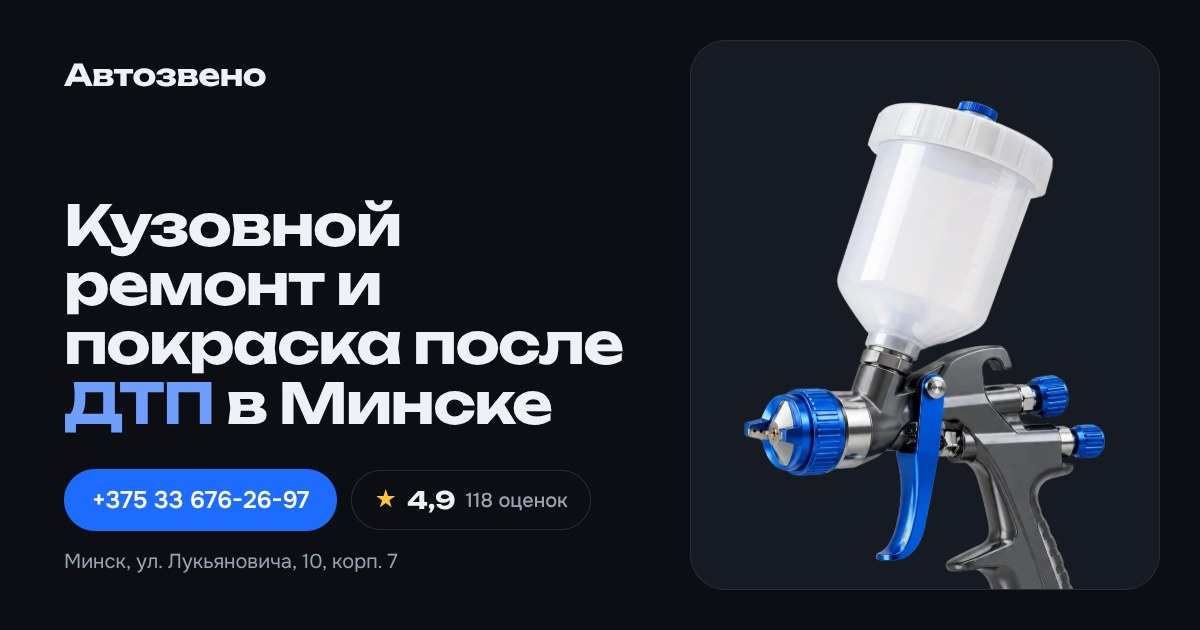
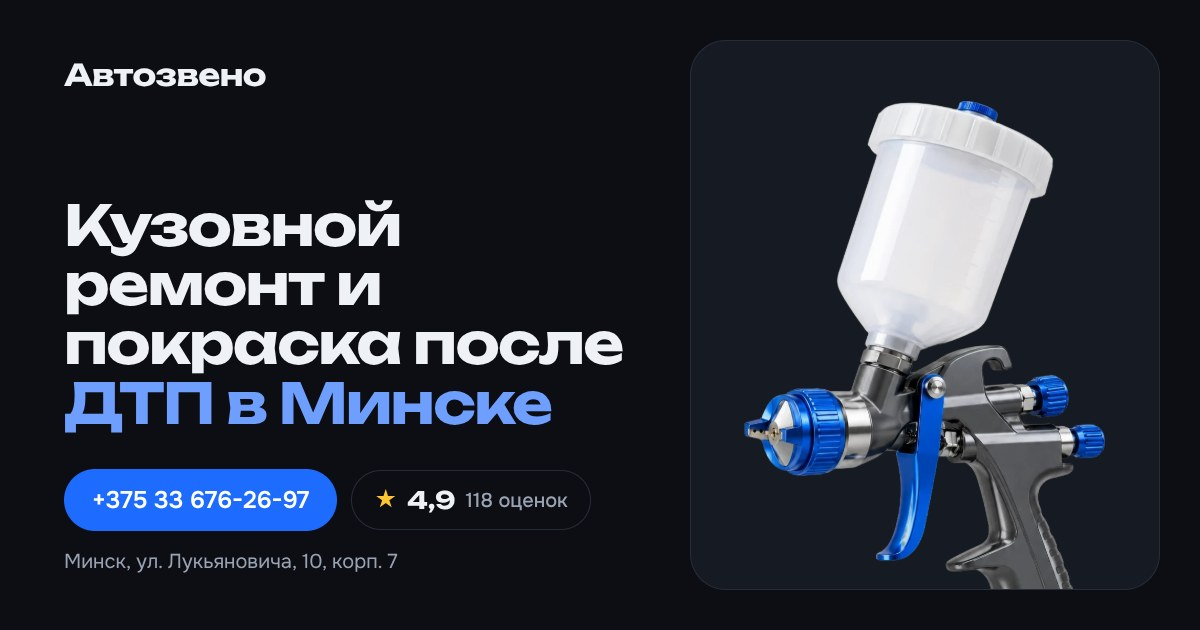
Плакат: без колец, крупные точки справа, акцент — белая плашка (Автозвено: «ДТП в Минске»)
Claude-Session: https://claude.ai/code/session_016NbEm95whaVwUBYNA7vRPL

Changed region(s): [[0.185, 0.6032, 0.4625, 0.6937]]

diff --git a/blank/blank.css b/blank/blank.css
@@ -668,9 +668,9 @@ h2 em{font-style:normal;color:var(--ac-tx)}
 /* ---------- ПЛАКАТ: спокойные карточки, отступ после цветного экрана, акцент — подчёркивание, узор на первом экране ---------- */
 [data-style="плакат"]{--r:14px;--r-sm:10px}
 [data-style="плакат"] .hero{margin-bottom:clamp(40px,6vw,88px)}
-[data-style="плакат"] .hero h1 em,[data-style="плакат"] .hero h1 mark{background:none;color:inherit;padding:0;text-decoration:underline;text-decoration-color:color-mix(in srgb,var(--on-ac) 70%,transparent);text-decoration-thickness:.09em;text-underline-offset:.12em;text-decoration-skip-ink:none}
+[data-style="плакат"] .hero h1 em,[data-style="плакат"] .hero h1 mark{background:var(--on-ac);color:var(--ac);padding:0 .12em;margin:0 -.04em;border-radius:.1em;-webkit-box-decoration-break:clone;box-decoration-break:clone;text-decoration:none}
 [data-style="плакат"] .cards .ic,[data-style="плакат"] .why .ic{border-radius:10px}
-/* узор: второе тонкое кольцо вокруг большого и сетка точек в левом нижнем углу */
-[data-style="плакат"] .hero::before{outline:1px solid color-mix(in srgb,var(--on-ac) 22%,transparent);outline-offset:clamp(28px,4vw,56px)}
+/* узор: без колец — сетка крупных точек справа за картинкой и мелких слева внизу */
+[data-style="плакат"] .hero::before{outline:0;box-shadow:none;border-radius:0;transform:none;top:0;bottom:0;right:0;left:auto;width:min(58vw,820px);aspect-ratio:auto;background-image:radial-gradient(color-mix(in srgb,var(--on-ac) 32%,transparent) 2.6px,transparent 2.9px);background-size:34px 34px;-webkit-mask:radial-gradient(ellipse 70% 75% at 70% 45%,#000 20%,transparent 72%);mask:radial-gradient(ellipse 70% 75% at 70% 45%,#000 20%,transparent 72%)}
 [data-style="плакат"] .hero::after{content:"";position:absolute;left:-20px;bottom:-10px;width:min(46vw,520px);height:220px;background-image:radial-gradient(color-mix(in srgb,var(--on-ac) 30%,transparent) 1.6px,transparent 1.8px);background-size:22px 22px;-webkit-mask:radial-gradient(ellipse at 0% 100%,#000 10%,transparent 70%);mask:radial-gradient(ellipse at 0% 100%,#000 10%,transparent 70%);pointer-events:none}
 @media(max-width:900px){[data-style="плакат"] .hero::after{height:160px;width:70vw}}

diff --git a/avtozveno/index.html b/avtozveno/index.html
@@ -14,7 +14,7 @@
 <meta property="og:url" content="https://d1trepes.github.io/sites/avtozveno/">
 <meta property="og:title" content="Автозвено — кузовной ремонт и покраска на ул. Лукьяновича, Минск">
 <meta property="og:description" content="Восстановление после ДТП, покраска, пороги и арки. Ремонт по ОСАГО. Рейтинг 4,9 на Яндекс Картах.">
-<meta property="og:image" content="https://d1trepes.github.io/sites/avtozveno/img/og.jpg?v=c7934a0a">
+<meta property="og:image" content="https://d1trepes.github.io/sites/avtozveno/img/og.jpg?v=1fe9539b">
 <meta property="og:image:width" content="1200">
 <meta property="og:image:height" content="630">
 <meta name="twitter:card" content="summary_large_image">
@@ -22,7 +22,7 @@
 <link rel="preconnect" href="https://fonts.googleapis.com">
 <link rel="preconnect" href="https://fonts.gstatic.com" crossorigin>
 <link href="https://fonts.googleapis.com/css2?family=Rubik:wght@400;500;600&family=Russo+One&display=swap" rel="stylesheet">
-<link rel="stylesheet" href="../blank/blank.css?v=3a4ae61c">
+<link rel="stylesheet" href="../blank/blank.css?v=2c217f0f">
 <script>document.documentElement.classList.add("js")</script>
 <script type="application/ld+json">
 {
@@ -30,7 +30,7 @@
   "@type": "AutoRepair",
   "name": "Автозвено",
   "url": "https://d1trepes.github.io/sites/avtozveno/",
-  "image": "https://d1trepes.github.io/sites/avtozveno/img/og.jpg?v=c7934a0a",
+  "image": "https://d1trepes.github.io/sites/avtozveno/img/og.jpg?v=1fe9539b",
   "telephone": [
     "+375336762697",
     "+375293923084"
@@ -80,7 +80,7 @@
     <div class="htop">
       
       
-      <h1 class="rv">Кузовной ремонт и покраска после <em>ДТП</em> в Минске</h1>
+      <h1 class="rv">Кузовной ремонт и покраска после <em>ДТП в Минске</em></h1>
     </div>
     <div class="hbody">
       <p class="lead rv" style="--d:0.1s">Автозвено на ул. Лукьяновича: восстановим машину после аварии и покрасим в цвет.</p>

diff --git a/tablica/index.html b/tablica/index.html
@@ -36,7 +36,7 @@ dl{display:flex;flex-wrap:wrap;gap:6px 18px;font-size:13px}dt{color:var(--mut);f
 .nt{font-size:13px;color:var(--mut);border-top:1px dashed var(--line);padding-top:10px}
 @media(max-width:760px){.kpi{grid-template-columns:repeat(2,1fr)}.grid{grid-template-columns:1fr}h1{font-size:26px}}
 </style></head><body><div class="w">
-<div class="top"><div><h1>Мои клиенты</h1><p>Сайты для автосервисов · обновлено 25 октября в 13:40</p></div></div>
+<div class="top"><div><h1>Мои клиенты</h1><p>Сайты для автосервисов · обновлено 25 октября в 13:45</p></div></div>
 <div class="kpi">
 <div class="k"><b>11</b><span>всего сервисов</span></div>
 <div class="k"><b>10</b><span>демо ждут звонка</span></div>

diff --git a/gtgarage/index.html b/gtgarage/index.html
@@ -22,7 +22,7 @@
 <link rel="preconnect" href="https://fonts.googleapis.com">
 <link rel="preconnect" href="https://fonts.gstatic.com" crossorigin>
 <link href="https://fonts.googleapis.com/css2?family=Golos+Text:wght@400;500;600&family=Oswald:wght@500;600;700&display=swap" rel="stylesheet">
-<link rel="stylesheet" href="../blank/blank.css?v=3a4ae61c">
+<link rel="stylesheet" href="../blank/blank.css?v=2c217f0f">
 <script>document.documentElement.classList.add("js")</script>
 <script type="application/ld+json">
 {

diff --git a/moy-mehanik/index.html b/moy-mehanik/index.html
@@ -22,7 +22,7 @@
 <link rel="preconnect" href="https://fonts.googleapis.com">
 <link rel="preconnect" href="https://fonts.gstatic.com" crossorigin>
 <link href="https://fonts.googleapis.com/css2?family=Golos+Text:wght@400;500;600&family=Oswald:wght@500;600;700&display=swap" rel="stylesheet">
-<link rel="stylesheet" href="../blank/blank.css?v=3a4ae61c">
+<link rel="stylesheet" href="../blank/blank.css?v=2c217f0f">
 <script>document.documentElement.classList.add("js")</script>
 <script type="application/ld+json">
 {

diff --git a/sto-777/index.html b/sto-777/index.html
@@ -22,7 +22,7 @@
 <link rel="preconnect" href="https://fonts.googleapis.com">
 <link rel="preconnect" href="https://fonts.gstatic.com" crossorigin>
 <link href="https://fonts.googleapis.com/css2?family=Golos+Text:wght@400;500;600&family=Oswald:wght@500;600;700&display=swap" rel="stylesheet">
-<link rel="stylesheet" href="../blank/blank.css?v=3a4ae61c">
+<link rel="stylesheet" href="../blank/blank.css?v=2c217f0f">
 <script>document.documentElement.classList.add("js")</script>
 <script type="application/ld+json">
 {

diff --git a/avtoservismaster/index.html b/avtoservismaster/index.html
@@ -22,7 +22,7 @@
 <link rel="preconnect" href="https://fonts.googleapis.com">
 <link rel="preconnect" href="https://fonts.gstatic.com" crossorigin>
 <link href="https://fonts.googleapis.com/css2?family=Onest:wght@400;500;600&family=Unbounded:wght@500;700&display=swap" rel="stylesheet">
-<link rel="stylesheet" href="../blank/blank.css?v=3a4ae61c">
+<link rel="stylesheet" href="../blank/blank.css?v=2c217f0f">
 <script>document.documentElement.classList.add("js")</script>
 <script type="application/ld+json">
 {

diff --git a/gans-motors/index.html b/gans-motors/index.html
@@ -22,7 +22,7 @@
 <link rel="preconnect" href="https://fonts.googleapis.com">
 <link rel="preconnect" href="https://fonts.gstatic.com" crossorigin>
 <link href="https://fonts.googleapis.com/css2?family=Onest:wght@400;500;600&family=Unbounded:wght@500;700&display=swap" rel="stylesheet">
-<link rel="stylesheet" href="../blank/blank.css?v=3a4ae61c">
+<link rel="stylesheet" href="../blank/blank.css?v=2c217f0f">
 <script>document.documentElement.classList.add("js")</script>
 <script type="application/ld+json">
 {

diff --git a/ulvmontazh/index.html b/ulvmontazh/index.html
@@ -22,7 +22,7 @@
 <link rel="preconnect" href="https://fonts.googleapis.com">
 <link rel="preconnect" href="https://fonts.gstatic.com" crossorigin>
 <link href="https://fonts.googleapis.com/css2?family=Onest:wght@400;500;600&family=Unbounded:wght@500;700&display=swap" rel="stylesheet">
-<link rel="stylesheet" href="../blank/blank.css?v=3a4ae61c">
+<link rel="stylesheet" href="../blank/blank.css?v=2c217f0f">
 <script>document.documentElement.classList.add("js")</script>
 <script type="application/ld+json">
 {

diff --git a/sto-starovilenskaya/index.html b/sto-starovilenskaya/index.html
@@ -22,7 +22,7 @@
 <link rel="preconnect" href="https://fonts.googleapis.com">
 <link rel="preconnect" href="https://fonts.gstatic.com" crossorigin>
 <link href="https://fonts.googleapis.com/css2?family=Rubik:wght@400;500;600&family=Russo+One&display=swap" rel="stylesheet">
-<link rel="stylesheet" href="../blank/blank.css?v=3a4ae61c">
+<link rel="stylesheet" href="../blank/blank.css?v=2c217f0f">
 <script>document.documentElement.classList.add("js")</script>
 <script type="application/ld+json">
 {

diff --git a/alfamagnit/index.html b/alfamagnit/index.html
@@ -22,7 +22,7 @@
 <link rel="preconnect" href="https://fonts.googleapis.com">
 <link rel="preconnect" href="https://fonts.gstatic.com" crossorigin>
 <link href="https://fonts.googleapis.com/css2?family=Manrope:wght@400;500;600;700;800&display=swap" rel="stylesheet">
-<link rel="stylesheet" href="../blank/blank.css?v=3a4ae61c">
+<link rel="stylesheet" href="../blank/blank.css?v=2c217f0f">
 <script>document.documentElement.classList.add("js")</script>
 <script type="application/ld+json">
 {

diff --git a/cts-service/index.html b/cts-service/index.html
@@ -22,7 +22,7 @@
 <link rel="preconnect" href="https://fonts.googleapis.com">
 <link rel="preconnect" href="https://fonts.gstatic.com" crossorigin>
 <link href="https://fonts.googleapis.com/css2?family=Manrope:wght@400;500;600;700;800&display=swap" rel="stylesheet">
-<link rel="stylesheet" href="../blank/blank.css?v=3a4ae61c">
+<link rel="stylesheet" href="../blank/blank.css?v=2c217f0f">
 <script>document.documentElement.classList.add("js")</script>
 <script type="application/ld+json">
 {
